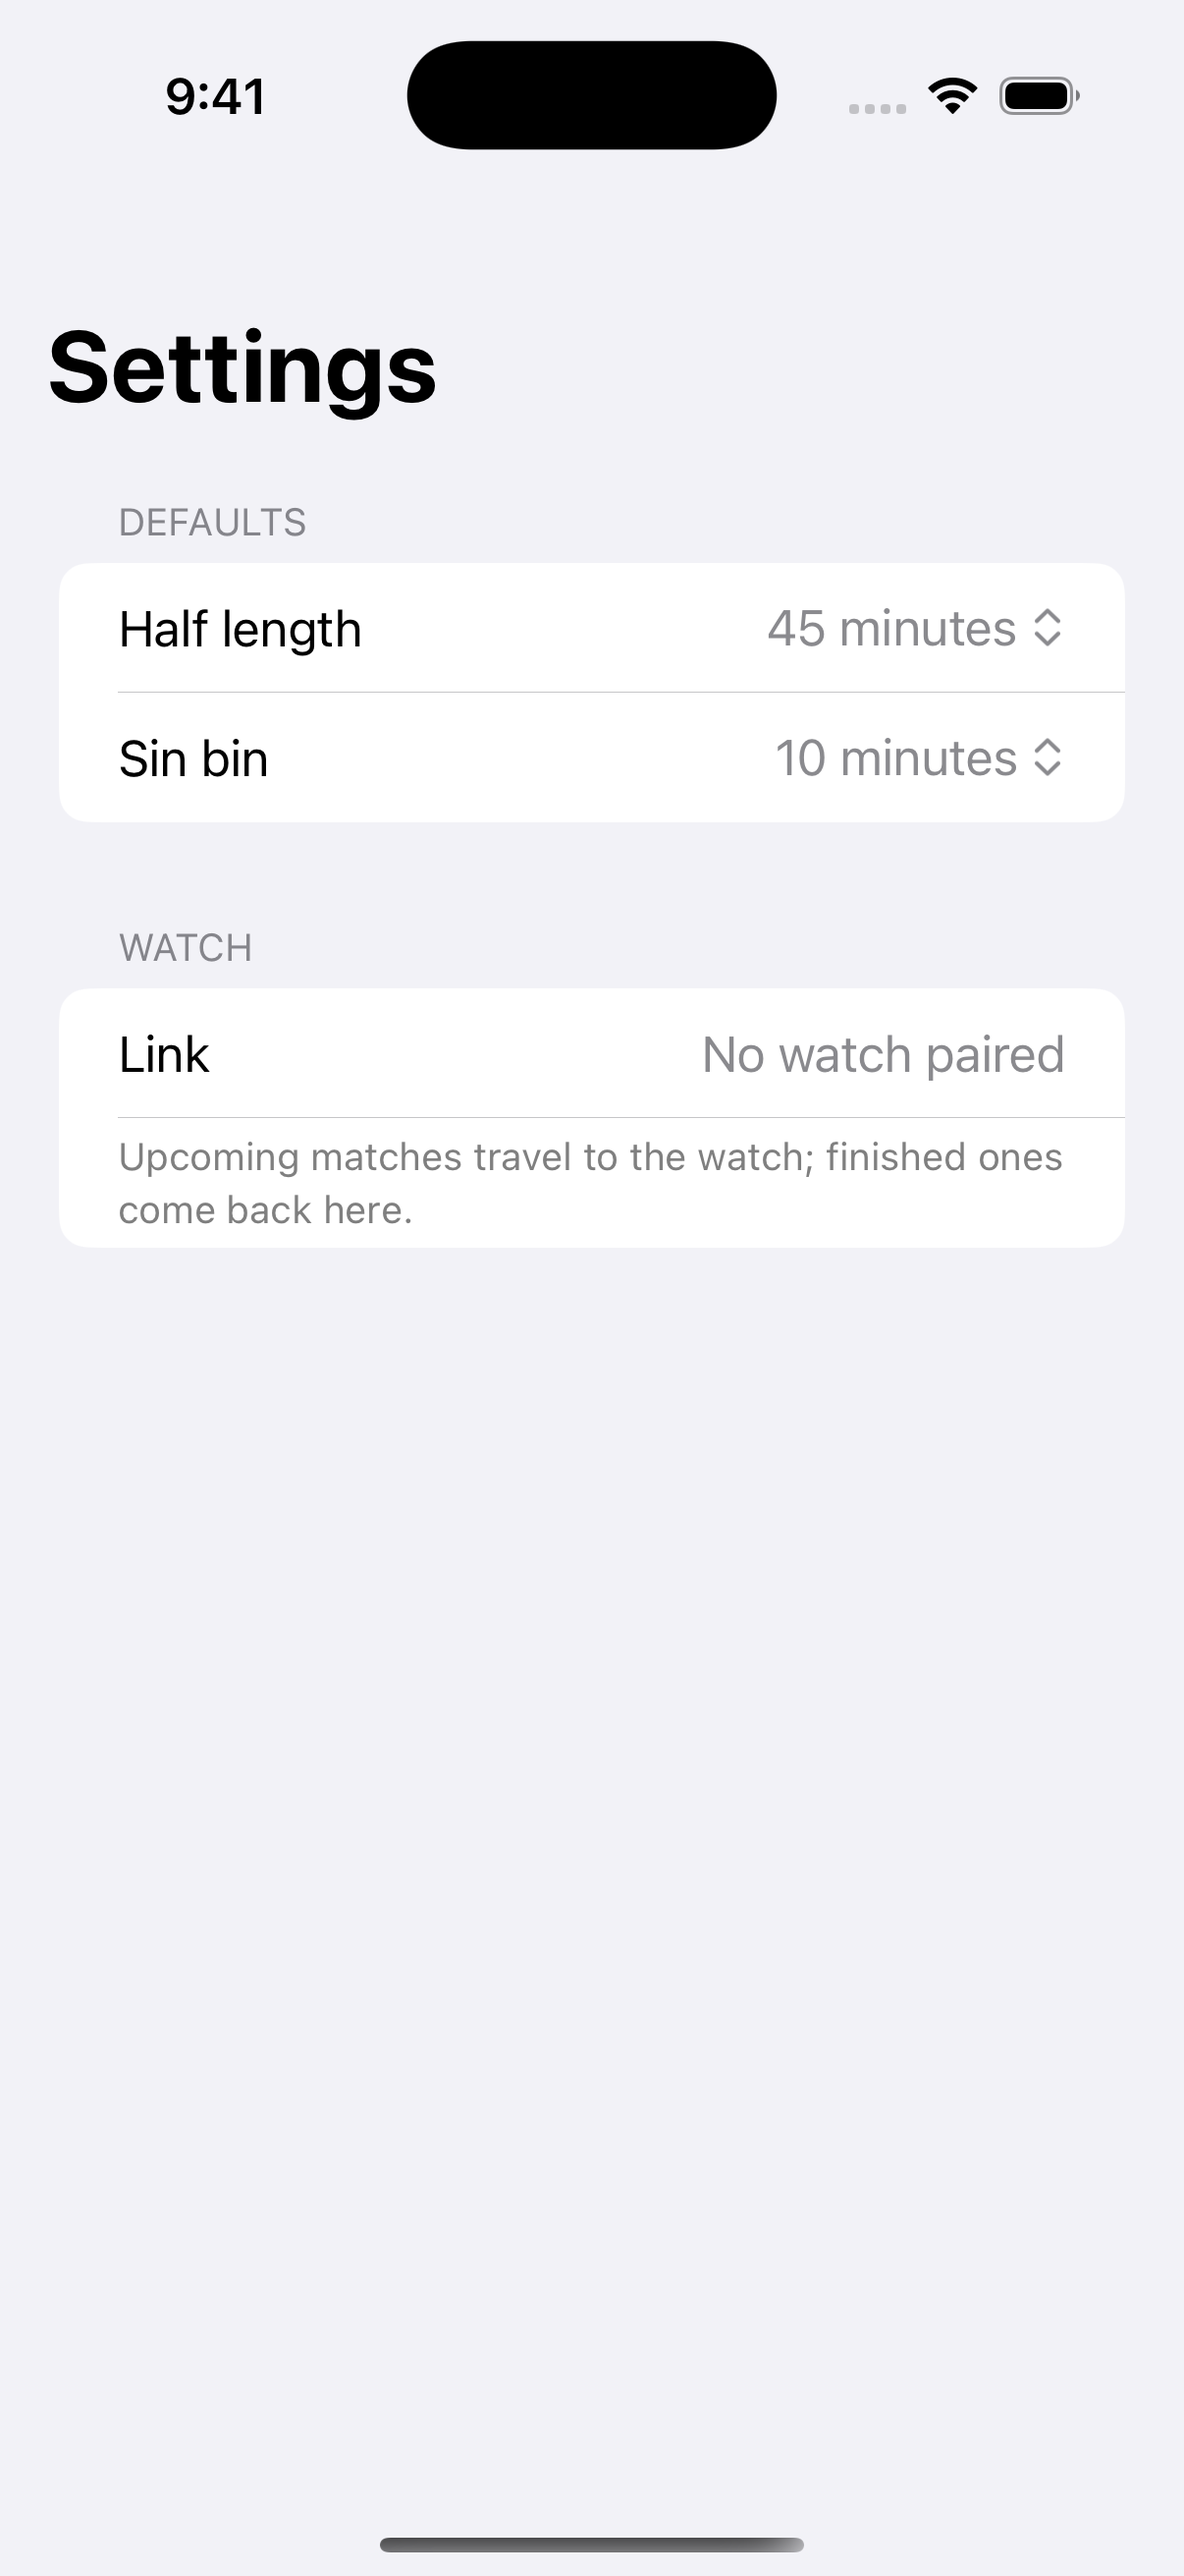
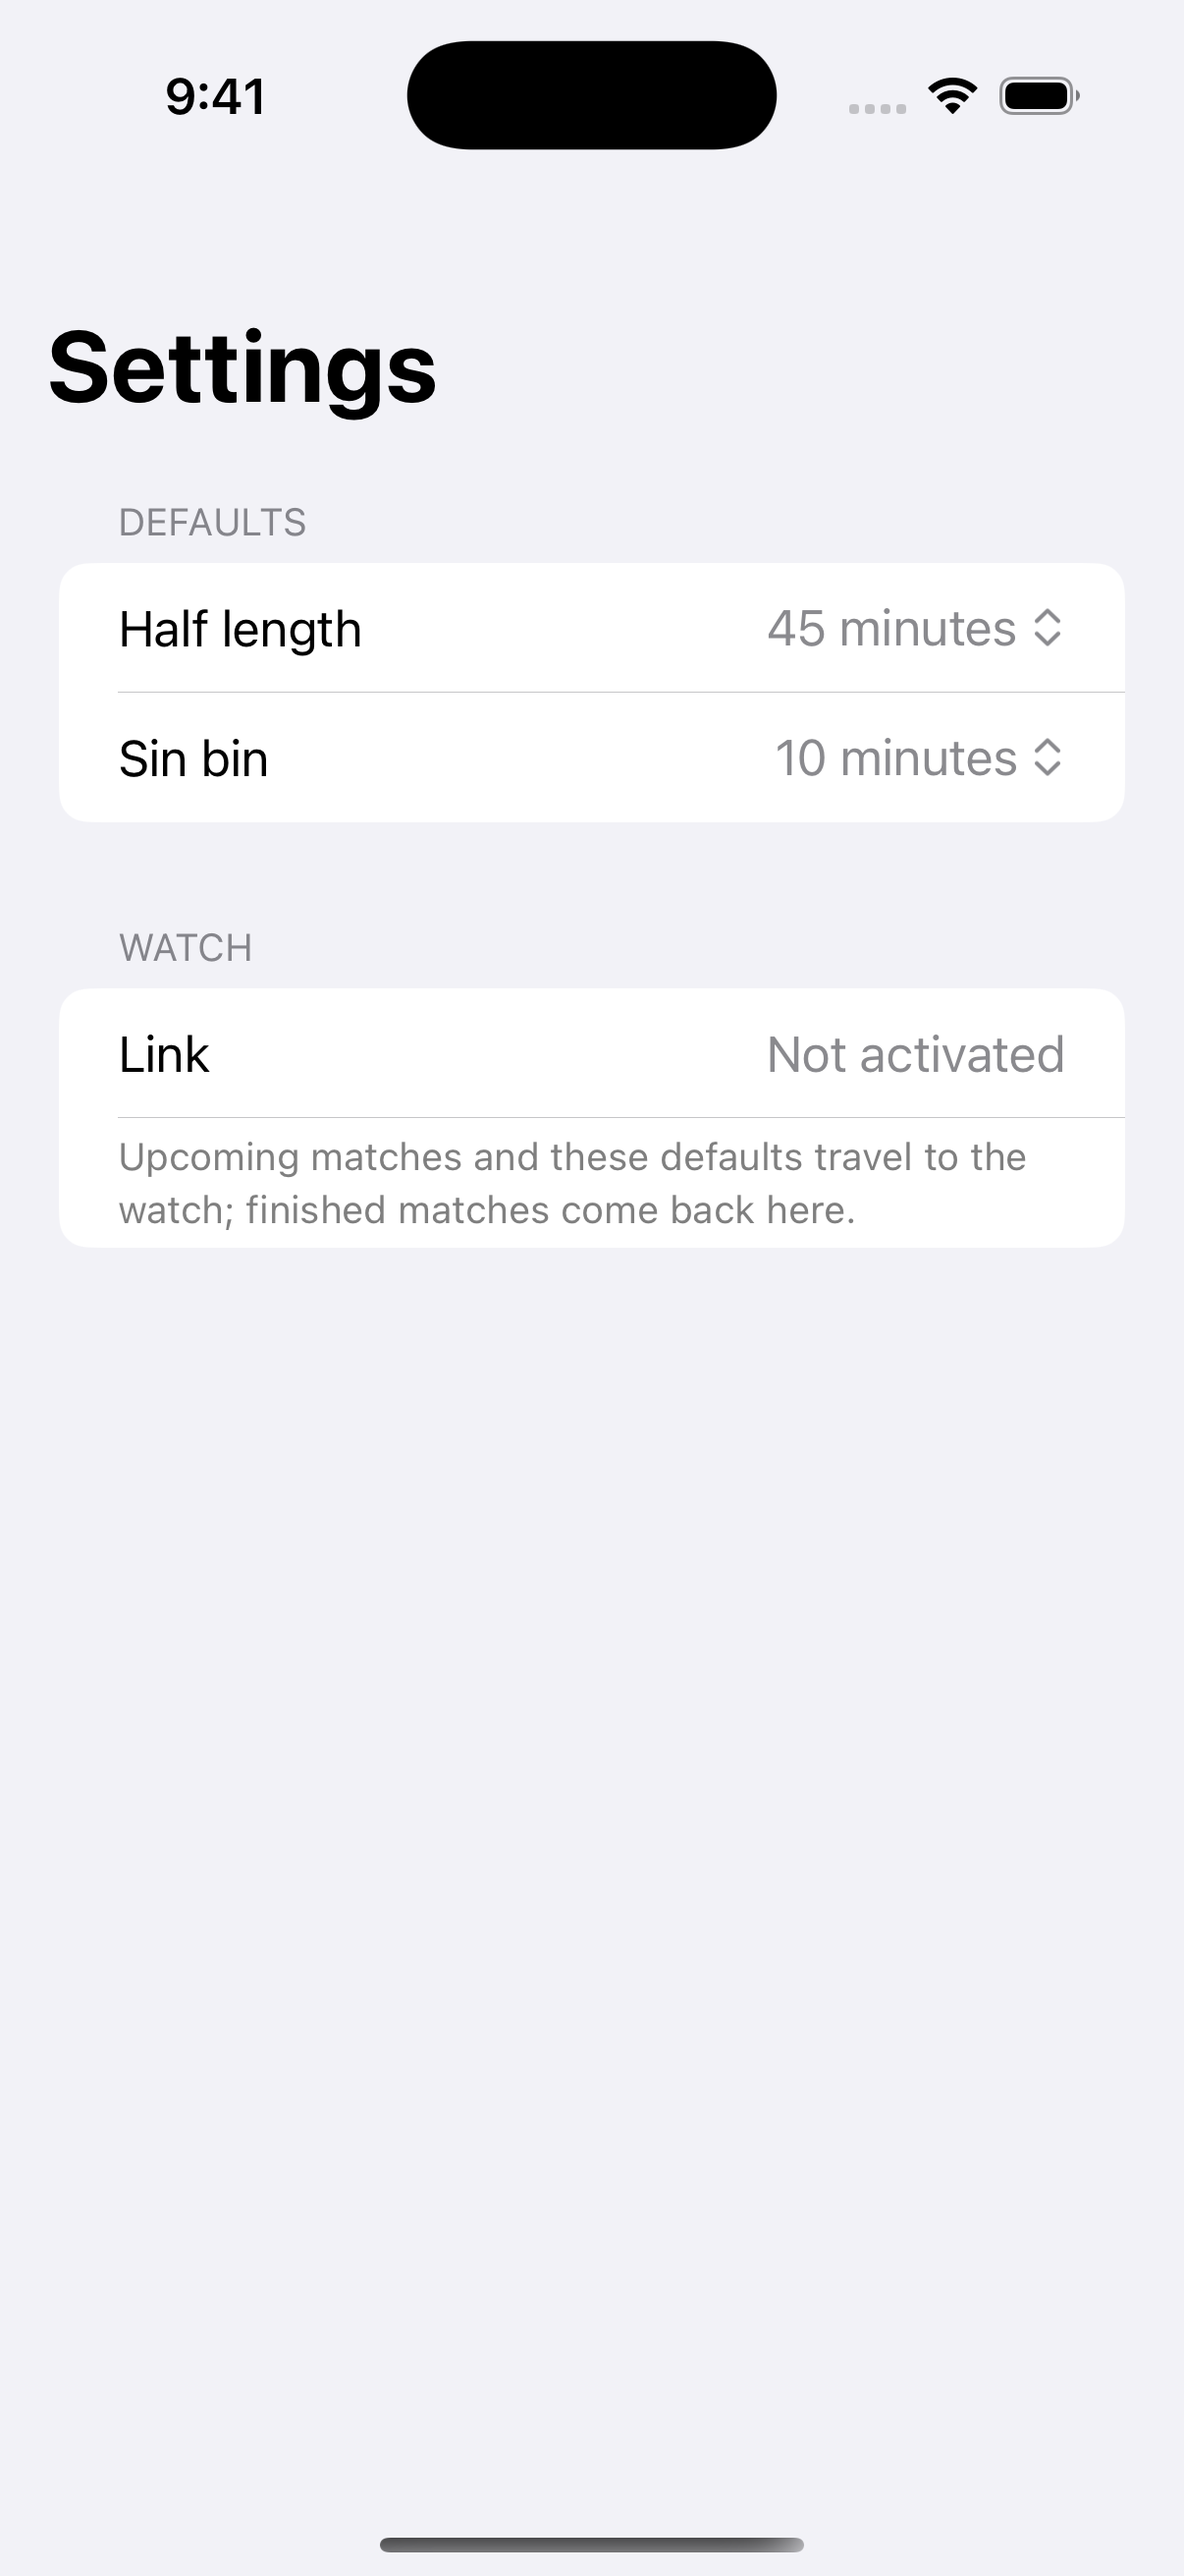
Ref: the record of the second session — undo, alarms, what is still unproven
README, SCOPE (P4.5) and HANDOFF say what changed and, in those words,
that the alarms with the wrist down and the workout recovery have never
run on a device. Renders refreshed: Undo in the record grid, Resume on
the break screen.

Claude-Session: https://claude.ai/code/session_01RcRMNyxA5ZCFsezVoPhFLs

Changed region(s): [[0.092, 0.4016, 0.8897, 0.4943]]

diff --git a/HANDOFF.md b/HANDOFF.md
@@ -9,7 +9,7 @@ decisions behind it — including the phase table this file mirrors).
 | | State |
 |---|---|
 | Repo | `~/dev/ref` = `keveduardo/ref`, private. Commits go straight to `main`; push after committing. |
-| The engine | `RefKit` — 41 tests, green on this box: `swift test --package-path RefKit` |
+| The engine | `RefKit` — 54 tests, green on this box: `swift test --package-path RefKit` |
 | The apps | The watch UI and the phone app compile in CI on every push; the `build` job also asserts the companion shape (watch app inside `Ref.app/Watch/`, the WK pairing, equal `CFBundleVersion`s). |
 | The screens | `renders/` — the `render` job's screenshots as a README GitHub renders on a phone. Snapshots, replaced in place. |
 | Signed / uploaded | **Nothing.** No TestFlight build exists and no match has been refereed with it. |
@@ -47,6 +47,31 @@ decisions behind it — including the phase table this file mirrors).
 The `ship` job archives the iOS app (the watch app rides inside it), refuses to
 upload an archive that carries no watch app, and sends the build to TestFlight.
 Build numbers come from the run number; both bundles share it (ITMS demands it).
+
+## What the second session (2026-10-04) changed
+
+A read of both apps end to end, for what would go wrong on the first
+Saturday — all fixed, in RefKit with tests where it could be:
+
+- **Undo** is a `.voided(id)` event. `EventLog.recorded` is everything (what
+  is stored and sent, still under the `"events"` key); `EventLog.events` is
+  the match as it happened, less voids and their targets. Everything
+  downstream reads `events`. Nothing is ever deleted, so sync still merges
+  by id.
+- **Alarms**: `Match.upcomingAlerts(after:)` projects the next buzz from
+  now; `MatchSession.replanAlarms()` sleeps until it and re-plans after
+  every event. With the wrist down they fire only because the workout
+  session keeps the app alive. **Unproven on a device**: that is the first
+  thing to check at P5's match.
+- **Settings across devices**: the watch cannot read the phone's
+  `UserDefaults`. The sin bin length lives in `MatchSetup.sinBinMinutes`,
+  and `SyncPayload.Assignment.defaults` carries the quick-start defaults.
+- **The phone's `onFinished` is wired in `RefApp.init`**, because a
+  background wake can deliver a finished match before any view exists.
+- **Crash recovery**: `MatchSession.init` recovers (or restarts) the workout
+  for a match in progress, and finishes the save for one already at full
+  time. `WorkoutRecorder.recover()` uses `recoverActiveWorkoutSession`. It
+  compiles in CI but has never run.
 
 ## The loop this repo runs on
 

diff --git a/SCOPE.md b/SCOPE.md
@@ -42,9 +42,12 @@ Identifiers (renameable until registered): bundle ids `com.brisaloca.ref` and
 - **Live**: big wall-clock-anchored timer, score, period, added time as
   `45:00 +2:10`; readable in always-on/dim mode; every incident in ≤3 taps
   with a haptic
-- **Record**: Goal (scorer number), Yellow, Red, Substitution, Sin bin
-  (countdown + notification when the player may return), added time (+1' per
-  tap), note
+- **Record**: Goal (scorer number), Yellow (a second one is recorded as a
+  second yellow), Red, Substitution, Sin bin (countdown + a buzz when the
+  player may return), added time (+1' per tap), note; **Undo** for any of
+  them, and **Resume** for a half ended by mistake
+- **Alarms** on the wrist, each its own rhythm: the half's length reached,
+  the announced added time used up, a sin bin over
 - Half-time timer, End match, summary. No phone, no network needed; a
   mid-match crash or reboot resumes (state is flushed on every event)
 
@@ -96,6 +99,7 @@ methods, only Sendable values crossing the hop.
 | **P3** ✅ | Phone UI: Matches, MatchSetup, Teams, MatchDetail + share, Stats, Settings | the render job's screenshots |
 | **P4** ✅ | Sync + HealthKit: WCSession both ways, workout session, GPS distance | compiles and asserts in CI; the *device* proof is the first real match (P5) |
 | **P0.5** | Bundle ids registered (ASC API); Kevin's errands; the first signed upload | Apple accepts the pairing — the one thing no local build can prove |
+| **P4.5** ✅ | From a full read of both apps: undo (`.voided` events — the log stays append-only), resume a half ended by mistake, alarms (half length, added time, sin bin over), the sin bin length and quick-start defaults actually reaching the watch, the phone's finished-match handler wired before any view, workout recovery after a crash | 54 tests; CI build; render. Alarms with the wrist down: P5 |
 | **P5** | Ship v1: icon, listing notes, `ship` → TestFlight; install on Kevin's iPhone + watch | a real match refereed with it |
 | **P6** | Whatever that match teaches | his feedback |
 

diff --git a/README.md b/README.md
@@ -31,7 +31,7 @@ tools/make-icon.py   draws the app icon into both asset catalogs
   companion watch app different from Rowing's and Swim's watch-only ones —
   the watch app inside `Ref.app/Watch/`, `WKCompanionAppBundleIdentifier`
   pointing home, no `WKWatchOnly`, matching `CFBundleVersion`s.
-- **The engine is real and tested** — 41 tests, run on this box on every
+- **The engine is real and tested** — 54 tests, run on this box on every
   push and by the `kit` job:
 
       swift test --package-path RefKit
@@ -41,6 +41,12 @@ tools/make-icon.py   draws the app icon into both asset catalogs
   no phone and no signal, the match is saved to Health as a workout, and the
   finished record — score, timeline, distance, heart rate — comes back to the
   phone's shelf.
+- **Mistakes can be taken back, and the wrist buzzes on time** (added
+  2026-10-04, second session): undo for any incident (Record → Undo →
+  confirm), "Resume 1st half" for a half ended by mistake, and haptic alarms
+  at the half's length, at the end of announced added time, and when a sin
+  bin runs out. The logic is tested here; the haptics firing with the wrist
+  down is a device question, answered at the first real match.
 - **The `render` job screenshots both apps** in simulators, so the screens
   can be reviewed from a phone (the artifacts of a `render` run).
 - **Signing and upload exist but have not run** — the `ship` job needs the
